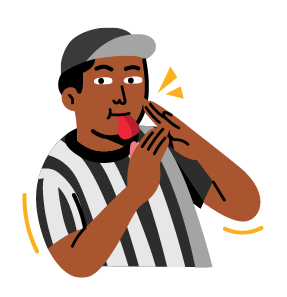
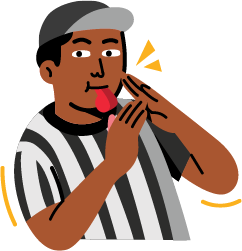
Fix: Vision section - Updated the styles - Removed the whitespaces from the images

diff --git a/app/index.html b/app/index.html
@@ -25,7 +25,7 @@
       <p class="browserupgrade">You are using an <strong>outdated</strong> browser. Please <a href="http://browsehappy.com/">upgrade your browser</a> to improve your experience.</p>
     <![endif]-->
 
-  <nav class="navbar fixed-top navbar-expand-lg bg-transparent">
+  <nav class="navbar fixed-top navbar-expand-lg bg-transparent shadow">
     <a class="navbar-brand" href="#">Navbar</a>
     <button class="navbar-toggler" type="button" data-toggle="collapse" data-target="#main-navbar"
       aria-controls="main-navbar" aria-expanded="false" aria-label="Expand menu">
@@ -72,8 +72,8 @@
     </div>
   </section>
 
-  <section id="vision" class="full-height">
-    <div class="container my-5">
+  <section id="vision" class="full-height d-flex align-items-center">
+    <div class="container">
       <div class="row align-items-end">
         <div class="col-md-6">
           <h1 class="header">Gojek Vision & Mission</h1>
@@ -85,7 +85,7 @@
         </div>
         <div class="col-md-6">
           <div class="card bg-green">
-            <img src="./img/Homepage-04.png" alt="" class="illustration img-fluid mx-auto d-block">
+            <img src="./img/Homepage-04.png" alt="" class="illustration img-fluid mx-auto mb-n3 d-block">
             <p class="highlight py-3 bg-pink">2 Million+
               Driver
               Partners
@@ -94,7 +94,7 @@
         </div>
 
         <div class="col-md-6">
-          <div class="card bg-orange mt-5">
+          <div class="card bg-orange mt-5 pb-0">
             <img src="./img/Homepage-05.png" alt="" class="illustration img-fluid mx-auto d-block">
             <p class="highlight py-3 bg-blue">400k+ Merchant
               Partners
@@ -113,14 +113,48 @@
     </div>
   </section>
 
-  <section id="scale">
-    <div class="container full-height">
-      Lorem ipsum, dolor sit amet consectetur adipisicing elit. Officiis quidem magnam sed dolore nemo laudantium ex
-      repudiandae blanditiis! Sapiente aperiam obcaecati veritatis vitae amet illo distinctio ea saepe voluptates non.
+  <section id="scale" class="bg-green full-height d-flex align-items-center">
+    <div class="container">
+      <div class="row">
+        <div class="col-md-8">
+          <h1 class="header">Scale</h1>
+          <p>Once a call-centre operation trying to make a dent in Jakarta’s traffic by organising bike taxi (ojek)
+            services, Gojek is now Southeast Asia’s answer to the trials of daily life. Since the launch of our SuperApp
+            in 2015, we’ve contributed XXXX amount to Indonesia’s economy, scaled order volumes 1100x and expanded to
+            Vietnam, Thailand, and Singapore. </p>
+        </div>
+      </div>
+
+      <div class="row mt-4 locations">
+        <div class="col-md-3">
+          <div class="card">
+            <img src="" alt="" class="illustration">
+            <p class="highlight">Singapore</p>
+          </div>
+        </div>
+        <div class="col-md-3">
+          <div class="card">
+            <img src="" alt="" class="illustration">
+            <p class="highlight">Singapore</p>
+          </div>
+        </div>
+        <div class="col-md-3">
+          <div class="card">
+            <img src="" alt="" class="illustration">
+            <p class="highlight">Singapore</p>
+          </div>
+        </div>
+        <div class="col-md-3">
+          <div class="card">
+            <img src="" alt="" class="illustration">
+            <p class="highlight">Singapore</p>
+          </div>
+        </div>
+      </div>
     </div>
   </section>
 
-  <section id="scale">
+  <section id="funding">
     <div class="container full-height">
       Lorem ipsum, dolor sit amet consectetur adipisicing elit. Officiis quidem magnam sed dolore nemo laudantium ex
       repudiandae blanditiis! Sapiente aperiam obcaecati veritatis vitae amet illo distinctio ea saepe voluptates non.

diff --git a/app/styles/main.scss b/app/styles/main.scss
@@ -81,3 +81,22 @@ body {
   font-size: $font-l;
   font-weight: 800;
 }
+
+#vision {
+  .card {
+    border-radius: 2rem;
+    border: none;
+
+    .illustration {
+      margin-top: -1.5rem;
+      z-index: 1;
+    }
+
+    .highlight {
+      border-radius: 2rem;
+      color: #fff;
+      margin-bottom: 0;
+      text-align: center;
+    }
+  }
+}
